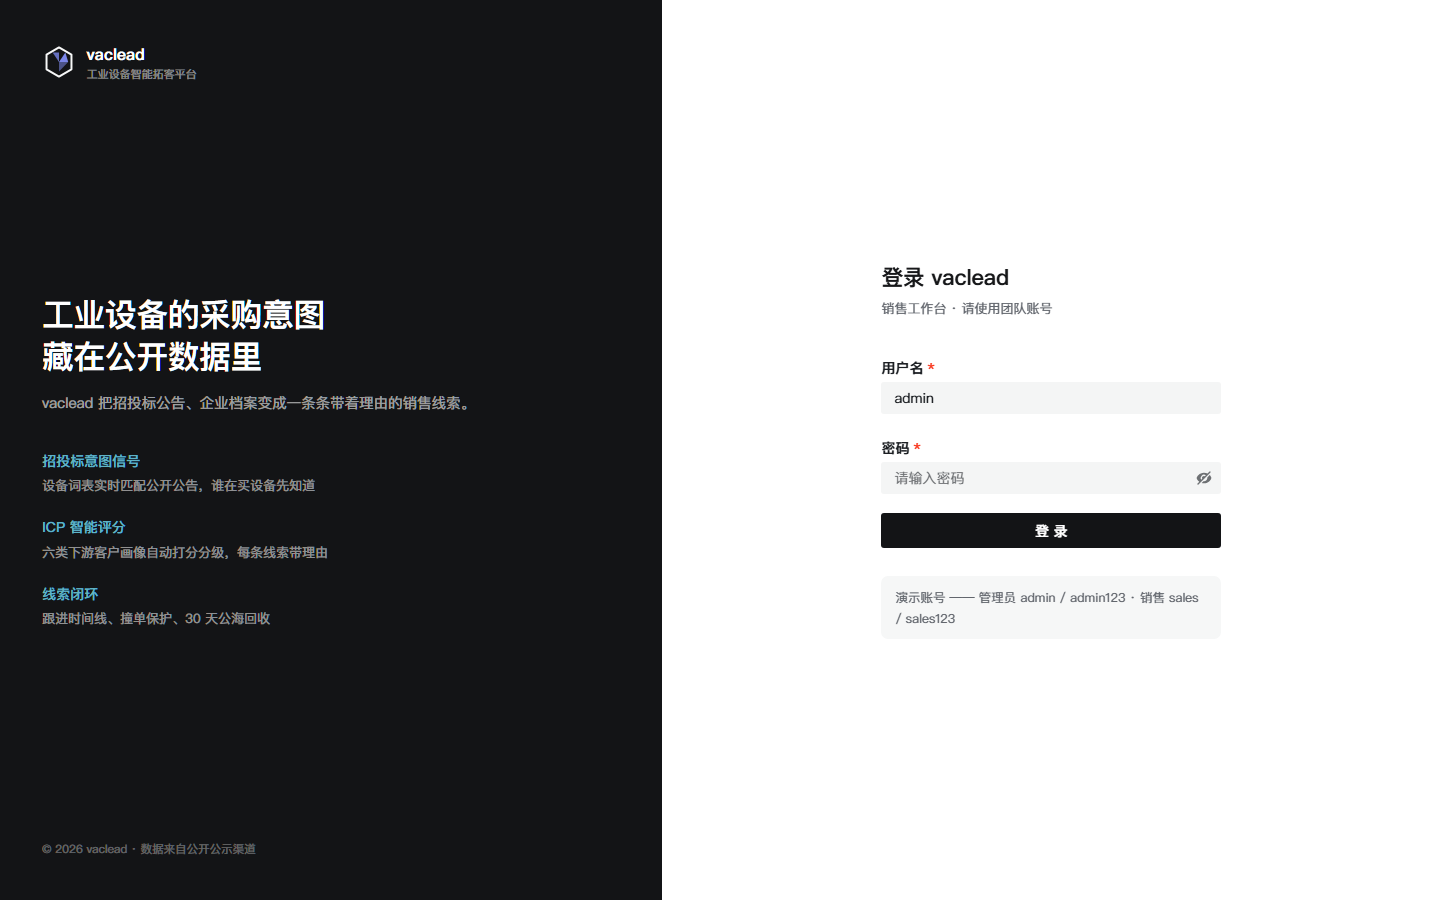
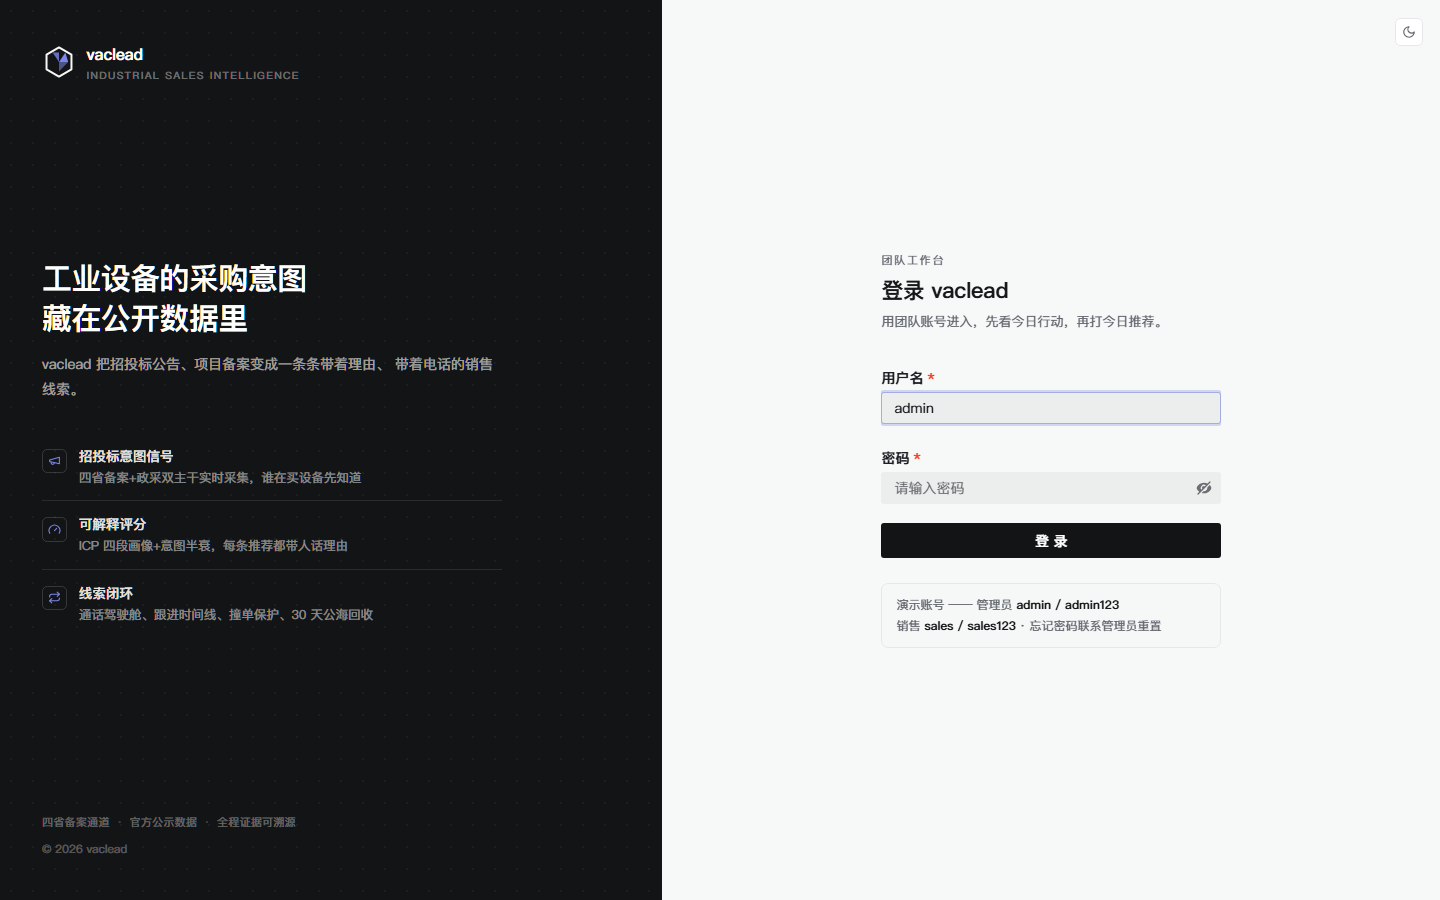
登录页大厂级重排: 左栏眉题+30px密排大标题+图标化卖点三条(lucide芯片+发丝分隔 旧青色硬编码清退)+信任条+点阵纹理 右栏主题自适应+切换钮(登录页可切亮暗)+移动品牌行+演示框升级 副题改卖点语言

diff --git a/frontend/app/login/page.tsx b/frontend/app/login/page.tsx
@@ -1,21 +1,66 @@
 "use client";
 
-import { useState } from "react";
+/**
+ * 登录页（大厂级重排，SPEC-CN）：Linear 学派双栏——
+ * 左：墨色品牌场（眉题/大标题/图标化卖点/信任条），右：主题自适应表单。
+ * 扁平无渐变无阴影；品牌六角涡；三态主题登录页可切换。
+ */
+import { useEffect, useState } from "react";
 import { useRouter } from "next/navigation";
 import { Button, Form, Toast } from "@douyinfe/semi-ui";
+import { Gauge, Megaphone, Moon, Repeat, Sun } from "lucide-react";
 import BrandMark from "@/components/BrandMark";
 import { setAuth, api } from "@/lib/api";
 import { BRAND } from "@/lib/theme";
 
+type ColorScheme = "Light" | "Dark" | "System";
+
+function applyScheme(scheme: ColorScheme) {
+  const isDark =
+    scheme === "Dark" ||
+    (scheme === "System" &&
+      typeof window !== "undefined" &&
+      window.matchMedia("(prefers-color-scheme: dark)").matches);
+  document.documentElement.setAttribute("data-theme", isDark ? "dark" : "light");
+  document.body.setAttribute("theme-mode", isDark ? "dark" : "light");
+  document.documentElement.setAttribute("theme-mode", isDark ? "dark" : "light");
+}
+
 const FEATURES = [
-  { name: "招投标意图信号", desc: "设备词表实时匹配公开公告，谁在买设备先知道" },
-  { name: "ICP 智能评分", desc: "六类下游客户画像自动打分分级，每条线索带理由" },
-  { name: "线索闭环", desc: "跟进时间线、撞单保护、30 天公海回收" },
+  {
+    icon: Megaphone,
+    name: "招投标意图信号",
+    desc: "四省备案+政采双主干实时采集，谁在买设备先知道",
+  },
+  {
+    icon: Gauge,
+    name: "可解释评分",
+    desc: "ICP 四段画像+意图半衰，每条推荐都带人话理由",
+  },
+  {
+    icon: Repeat,
+    name: "线索闭环",
+    desc: "通话驾驶舱、跟进时间线、撞单保护、30 天公海回收",
+  },
 ];
 
 export default function LoginPage() {
   const router = useRouter();
   const [loading, setLoading] = useState(false);
+  const [scheme, setScheme] = useState<ColorScheme>("Light");
+
+  useEffect(() => {
+    const saved = (localStorage.getItem("vaclead_scheme") as ColorScheme) || "Light";
+    setScheme(saved);
+    applyScheme(saved);
+  }, []);
+
+  const toggleScheme = () => {
+    const next: ColorScheme = scheme === "Dark" ? "Light" : "Dark";
+    setScheme(next);
+    localStorage.setItem("vaclead_scheme", next);
+    applyScheme(next);
+  };
 
   const handleSubmit = async (values: { username: string; password: string }) => {
     setLoading(true);
@@ -34,52 +79,102 @@ export default function LoginPage() {
   };
 
   return (
-    <div className="flex min-h-screen bg-white">
-      {/* 左：墨色整面（扁平色场，无渐变） */}
-      <div className="animate-fadein relative hidden w-[46%] flex-col justify-between overflow-hidden p-12 text-white lg:flex" style={{ background: "#131416" }}>
+    <div className="flex min-h-screen bg-[var(--ground)]">
+      {/* 左：墨色品牌场（扁平色场+微点阵，无渐变） */}
+      <div
+        className="animate-fadein relative hidden w-[46%] flex-col justify-between overflow-hidden p-12 text-white lg:flex"
+        style={{
+          background: "#131416",
+          backgroundImage:
+            "radial-gradient(circle, rgba(247,248,248,0.045) 1px, transparent 1px)",
+          backgroundSize: "22px 22px",
+        }}
+      >
         <div className="relative flex items-center gap-3">
           <BrandMark size={34} hexColor="#f7f8f8" vortexColor="#7b86e8" />
           <div>
-            <div className="text-[16px] font-semibold">{BRAND.name}</div>
-            <div className="text-[11px] text-white/50">{BRAND.subtitle}</div>
+            <div className="text-[16px] font-semibold tracking-[-0.018em]">{BRAND.name}</div>
+            <div className="mt-0.5 text-[10px] uppercase tracking-[0.16em] text-white/40">
+              {BRAND.tagline}
+            </div>
           </div>
         </div>
 
-        <div className="relative max-w-[440px]">
-          <h1 className="text-[32px] font-semibold leading-[1.3]">
+        <div className="relative max-w-[460px]">
+          <h1 className="text-[30px] font-semibold leading-[1.32] tracking-[-0.02em]">
             工业设备的采购意图
             <br />
             藏在公开数据里
           </h1>
-          <p className="mt-4 text-[14.5px] leading-7 text-white/60">
-            {BRAND.name} 把招投标公告、企业档案变成一条条带着理由的销售线索。
+          <p className="mt-4 text-[14px] leading-7 text-white/60">
+            {BRAND.name} 把招投标公告、项目备案变成一条条带着理由、
+            带着电话的销售线索。
           </p>
-          <div className="mt-10 space-y-6">
-            {FEATURES.map((f) => (
-              <div key={f.name}>
-                <div className="text-[14px] font-medium text-[var(--accent)] [color:#5fb3c6]">{f.name}</div>
-                <div className="mt-1 text-[13px] leading-6 text-white/55">{f.desc}</div>
+          <div className="mt-9">
+            {FEATURES.map((f, i) => (
+              <div
+                key={f.name}
+                className={`flex items-start gap-3.5 py-4 ${i > 0 ? "border-t border-white/10" : ""}`}
+              >
+                <span className="mt-0.5 flex h-7 w-7 shrink-0 items-center justify-center rounded-md border border-white/15">
+                  <f.icon size={13} className="text-[#7b86e8]" strokeWidth={2} />
+                </span>
+                <div>
+                  <div className="text-[13.5px] font-medium text-white/90">{f.name}</div>
+                  <div className="mt-0.5 text-[12.5px] leading-5 text-white/50">{f.desc}</div>
+                </div>
               </div>
             ))}
           </div>
         </div>
 
-        <div className="relative text-[11.5px] text-white/35">
-          © 2026 {BRAND.name} · 数据来自公开公示渠道
+        <div className="relative">
+          <div className="mb-3 flex items-center gap-2 text-[11px] tracking-wide text-white/35">
+            <span>四省备案通道</span>
+            <span className="text-white/20">·</span>
+            <span>官方公示数据</span>
+            <span className="text-white/20">·</span>
+            <span>全程证据可溯源</span>
+          </div>
+          <div className="text-[11.5px] text-white/30">© 2026 {BRAND.name}</div>
         </div>
       </div>
 
-      {/* 右：登录表单 */}
-      <div className="flex flex-1 items-center justify-center px-6">
-        <div className="w-full max-w-[340px] animate-riseup">
-          <h2 className="text-[22px] font-semibold text-[var(--ink)]">登录 {BRAND.name}</h2>
-          <p className="mb-8 mt-1.5 text-[13px] text-[var(--muted)]">销售工作台 · 请使用团队账号</p>
+      {/* 右：登录表单（主题自适应） */}
+      <div className="relative flex flex-1 items-center justify-center px-6">
+        <button
+          onClick={toggleScheme}
+          className="absolute right-5 top-5 flex h-8 w-8 cursor-pointer items-center justify-center rounded-md border border-[var(--border)] bg-[var(--surface)] text-[var(--muted)] transition-colors hover:text-[var(--ink)]"
+          title={scheme === "Dark" ? "切亮色" : "切暗色"}
+        >
+          {scheme === "Dark" ? <Sun size={14} /> : <Moon size={14} />}
+        </button>
+
+        {/* 移动端品牌行（左栏 lg 以下隐藏） */}
+        <div className="absolute left-5 top-5 flex items-center gap-2 lg:hidden">
+          <BrandMark size={26} className="text-[var(--ink)]" />
+          <span className="text-[14px] font-semibold tracking-[-0.018em] text-[var(--ink)]">
+            {BRAND.name}
+          </span>
+        </div>
+
+        <div className="w-full max-w-[340px] animate-riseup pt-10 lg:pt-0">
+          <div className="mb-1.5 text-[11px] uppercase tracking-[0.16em] text-[var(--muted)]">
+            团队工作台
+          </div>
+          <h2 className="text-[22px] font-semibold tracking-[-0.02em] text-[var(--ink)]">
+            登录 {BRAND.name}
+          </h2>
+          <p className="mb-7 mt-1.5 text-[13px] text-[var(--muted)]">
+            用团队账号进入，先看今日行动，再打今日推荐。
+          </p>
 
           <Form onSubmit={handleSubmit} labelPosition="top">
             <Form.Input
               field="username"
               label="用户名"
               initValue="admin"
+              autoFocus
               rules={[{ required: true, message: "请输入用户名" }]}
               placeholder="admin / sales"
             />
@@ -95,8 +190,15 @@ export default function LoginPage() {
             </Button>
           </Form>
 
-          <div className="mt-8 rounded-lg bg-[var(--raised)] px-4 py-3 text-[12.5px] leading-6 text-[var(--muted)]">
-            演示账号 —— 管理员 admin / admin123 · 销售 sales / sales123
+          <div className="mt-7 rounded-lg border border-[var(--border)] bg-[var(--raised)] px-4 py-3 text-[12px] leading-6 text-[var(--muted)]">
+            演示账号 —— 管理员 <span className="font-medium text-[var(--ink)]">admin / admin123</span>
+            <br />
+            销售 <span className="font-medium text-[var(--ink)]">sales / sales123</span>
+            <span className="ml-1 text-[var(--muted)]">· 忘记密码联系管理员重置</span>
+          </div>
+
+          <div className="mt-6 text-center text-[11px] text-[var(--muted)] lg:hidden">
+            数据来自公开公示渠道 · 全程证据可溯源
           </div>
         </div>
       </div>
